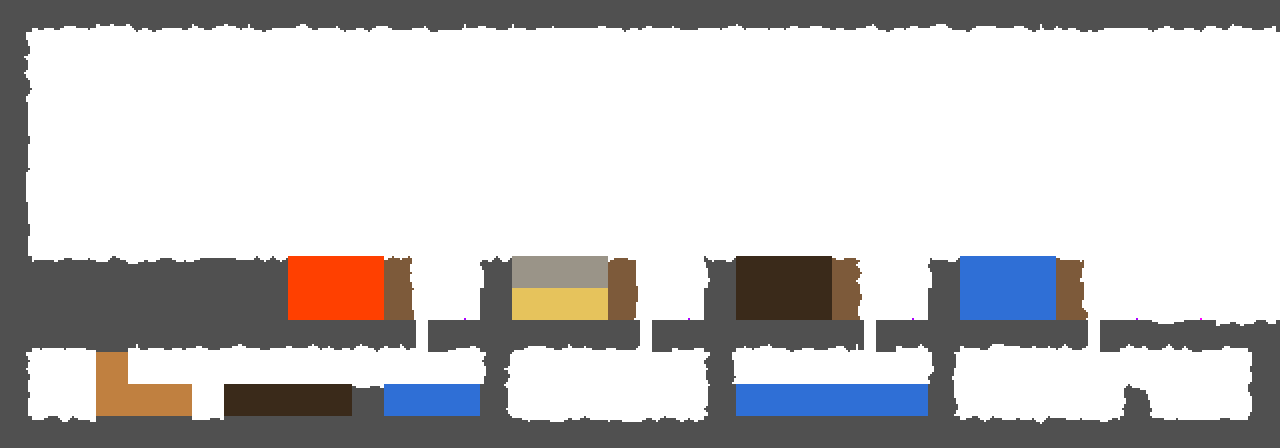
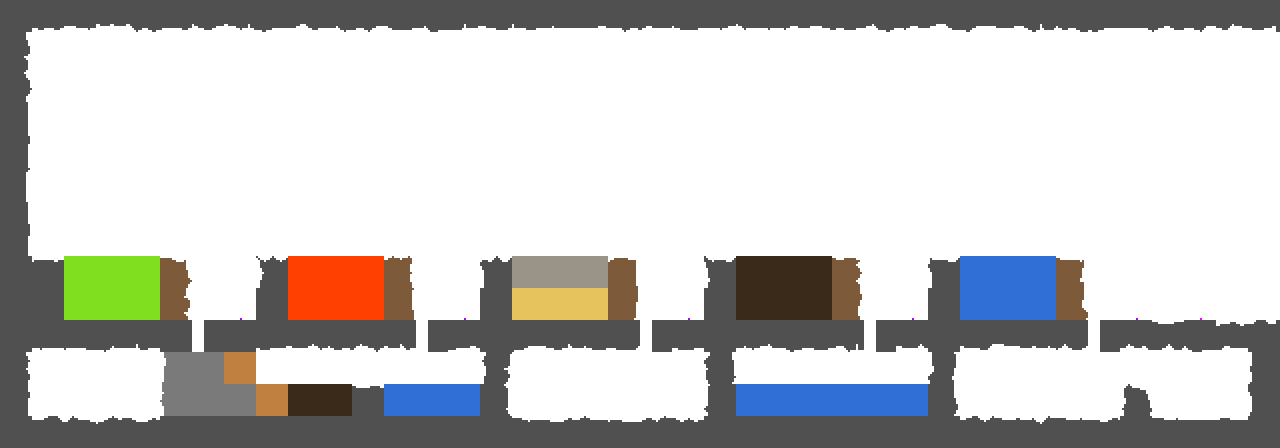
Torre 2D: fluidos estilo Noita (densidad, ácido, vapor y ceniza)
- Densidad por material: lo más pesado se hunde debajo del líquido más liviano (agua bajo aceite, arena en el agua; la ceniza flota).
- Ácido: carcome piedra, tierra, arena y madera (no la roca ni las espinas), se gasta al morder y quema al héroe.
- Vapor separado del humo: sale de lava+agua y fuego+agua, sube y se condensa en gotas de agua.
- La madera quemada deja ceniza.
- Sala de pruebas: quinta pileta (ácido) que cae sobre un bloque de piedra; carteles al día.
- Pruebas nuevas de cada regla.

Changed region(s): [[0.0312, 0.5625, 0.25, 0.9375]]

diff --git a/js/tower2dWorld.js b/js/tower2dWorld.js
@@ -5,14 +5,18 @@
 //   · arena: cae y se amontona · agua: corre y llena huecos (te frena y podés nadar) · madera: sólida, se quema
 //   · fuego: quema la madera y se apaga solo · lava: corre lenta, quema, vuelve piedra al agua · humo: sube y se va
 //   · espinas: sólidas y lastiman
+//   · ácido: líquido que disuelve lo que toca (menos la roca) y se gasta · vapor: sube y se condensa en gotas de agua
+//   · ceniza: lo que queda de la madera quemada; es liviana y flota en el agua
+//   Cada material tiene su densidad (MAT_DENS): lo más pesado se hunde debajo de lo más liviano (el aceite flota en el
+//   agua, la arena se hunde, la ceniza flota).
 //   Solo se simulan los trozos (16×16) donde algo se movió: así anda liviano en el navegador.
 //   Las salas fijas son imágenes (torre2d/salas/*.png): cada color es un material (guía en docs/TORRE2D-SALAS.md).
 
-const MAT = { AIR: 0, ROCK: 1, STONE: 2, DIRT: 3, SAND: 4, WATER: 5, WOOD: 6, FIRE: 7, LAVA: 8, SMOKE: 9, SPIKE: 10, GRAVEL: 11, OIL: 12 };
+const MAT = { AIR: 0, ROCK: 1, STONE: 2, DIRT: 3, SAND: 4, WATER: 5, WOOD: 6, FIRE: 7, LAVA: 8, SMOKE: 9, SPIKE: 10, GRAVEL: 11, OIL: 12, STEAM: 13, ACID: 14, ASH: 15 };
 // Colores de la imagen de cada sala → material (y marcas: entrada, enemigos, la pluma)
 const T2D_COLORS = [
     [MAT.ROCK, 0x505050], [MAT.STONE, 0x7a7a7a], [MAT.DIRT, 0x7d5a3a], [MAT.SAND, 0xe6c35c], [MAT.WATER, 0x2f6fd6],
-    [MAT.WOOD, 0xc08040], [MAT.LAVA, 0xff4000], [MAT.SPIKE, 0xd0d0e0], [MAT.GRAVEL, 0x9a9488], [MAT.OIL, 0x3a2a1a],
+    [MAT.WOOD, 0xc08040], [MAT.LAVA, 0xff4000], [MAT.SPIKE, 0xd0d0e0], [MAT.GRAVEL, 0x9a9488], [MAT.OIL, 0x3a2a1a], [MAT.ACID, 0x80e020],
     ['P', 0xff00ff], ['E', 0x00ff00], ['C', 0xff8800], ['F', 0xffff00], ['T', 0xaa00ff]
 ];
 // Cómo se dibuja cada material (dos tonos: el píxel elige uno según su "veta")
@@ -22,12 +26,17 @@ const MAT_LOOK = {
     [MAT.WATER]: [0x2a63c4, 0x2f6fd6, 0x3a7fe6, 0x4a8ef0], [MAT.WOOD]: [0x8a5a2e, 0x9a6534, 0xb07440, 0xbf8150],
     [MAT.FIRE]: [0xff5a10, 0xff7a1a, 0xffb02a, 0xffd23f], [MAT.LAVA]: [0xe03000, 0xff4000, 0xff6010, 0xff7a1a],
     [MAT.SMOKE]: [0x5e5864, 0x6a6470, 0x75707b, 0x7d7783], [MAT.SPIKE]: [0xb8bbc1, 0xc9ccd1, 0xdadde2, 0xe6e8ec],
-    [MAT.GRAVEL]: [0x7a7468, 0x8a8478, 0x9a9488, 0xa29c90], [MAT.OIL]: [0x261a10, 0x2e2016, 0x352619, 0x3d2c1e]
+    [MAT.GRAVEL]: [0x7a7468, 0x8a8478, 0x9a9488, 0xa29c90], [MAT.OIL]: [0x261a10, 0x2e2016, 0x352619, 0x3d2c1e],
+    [MAT.STEAM]: [0xc8ced8, 0xd2d8e0, 0xdce1e8, 0xe6eaef], [MAT.ACID]: [0x5cc21e, 0x6ad12a, 0x80e020, 0x9cf04a],
+    [MAT.ASH]: [0x45404a, 0x504a55, 0x5a545f, 0x655f6a]
 };
 const MAT_SOLID = new Uint8Array(16), MAT_LIQUID = new Uint8Array(16);
 [MAT.ROCK, MAT.STONE, MAT.DIRT, MAT.SAND, MAT.WOOD, MAT.SPIKE, MAT.GRAVEL].forEach(m => { MAT_SOLID[m] = 1; });
-[MAT.WATER, MAT.LAVA, MAT.OIL].forEach(m => { MAT_LIQUID[m] = 1; });
-const W2D = { chunk: 16, waterSpread: 5, oilSpread: 4, fireLife: [40, 90], burnChance: 0.04, oilBurn: 0.35, smokeLife: [40, 80], maxFly: 700, gravity: 320 };
+[MAT.WATER, MAT.LAVA, MAT.OIL, MAT.ACID].forEach(m => { MAT_LIQUID[m] = 1; });
+// Densidad: decide quién se hunde debajo de quién (líquidos y polvos). Los gases (humo, vapor, fuego) no pesan nada.
+const MAT_DENS = new Float32Array(16);
+Object.entries({ OIL: 0.8, WATER: 1, ACID: 1.05, ASH: 0.6, SAND: 1.6, GRAVEL: 2, LAVA: 2.5 }).forEach(([k, d]) => { MAT_DENS[MAT[k]] = d; });
+const W2D = { chunk: 16, waterSpread: 5, oilSpread: 4, acidSpread: 4, acidEat: 0.06, fireLife: [40, 90], burnChance: 0.04, oilBurn: 0.35, smokeLife: [40, 80], maxFly: 700, gravity: 320 };
 
 function w2dMake(W, H) {
     const n = W * H, C = W2D.chunk;
@@ -86,7 +95,7 @@ function w2dFromImage(img) {
 // # roca · p piedra · t tierra · s arena · g grava · ~ agua · o aceite · = madera (tabla de 4 px) · w madera · L lava · ^ espinas · h hueco angosto · P E C F marcas
 function w2dFromRows(rows, T = 16) {
     const w = w2dMake(rows[0].length * T, rows.length * T);
-    const fill = { '#': MAT.ROCK, p: MAT.STONE, t: MAT.DIRT, s: MAT.SAND, '~': MAT.WATER, w: MAT.WOOD, L: MAT.LAVA, g: MAT.GRAVEL, o: MAT.OIL };
+    const fill = { '#': MAT.ROCK, p: MAT.STONE, t: MAT.DIRT, s: MAT.SAND, '~': MAT.WATER, w: MAT.WOOD, L: MAT.LAVA, g: MAT.GRAVEL, o: MAT.OIL, a: MAT.ACID };
     rows.forEach((r, ty) => [...r].forEach((c, tx) => {
         const x0 = tx * T, y0 = ty * T;
         if (fill[c] !== undefined) { for (let y = y0; y < y0 + T; y++) w.mat.fill(fill[c], y * w.W + x0, y * w.W + x0 + T); }
@@ -110,12 +119,13 @@ function w2dStep(w) {
         for (let y = y1 - 1; y >= y0; y--) for (let j = 0; j < x1 - x0; j++) {
             const x = flip ? x0 + j : x1 - 1 - j, i = y * W + x, m = w.mat[i];
             if (m === MAT.AIR || w.tick[i] === w.frame) continue;
-            if (m === MAT.SAND || m === MAT.GRAVEL) w2dPowder(w, x, y, i);
+            if (m === MAT.SAND || m === MAT.GRAVEL || m === MAT.ASH) w2dPowder(w, x, y, i);
             else if (m === MAT.WATER) w2dLiquid(w, x, y, i, W2D.waterSpread);
             else if (m === MAT.OIL) w2dLiquid(w, x, y, i, W2D.oilSpread);
+            else if (m === MAT.ACID) { if (!w2dAcid(w, x, y, i)) w2dLiquid(w, x, y, i, W2D.acidSpread); }
             else if (m === MAT.LAVA) { if ((w.frame + x) % 3 === 0) w2dLiquid(w, x, y, i, 1); w2dLava(w, x, y); }
             else if (m === MAT.FIRE) w2dFire(w, x, y, i);
-            else if (m === MAT.SMOKE) w2dSmoke(w, x, y, i);
+            else if (m === MAT.SMOKE || m === MAT.STEAM) w2dSmoke(w, x, y, i);
             else if (m === MAT.DIRT && y + 1 < w.H && w.mat[i + w.W] === MAT.AIR) w2dCrumble(w, x, y, i);
         }
     }
@@ -157,12 +167,12 @@ function w2dCrumble(w, x, y, i) {
     w2dWake(w, x, y);
     if (Math.random() < 0.06) w2dSet(w, x, y, MAT.SAND);
 }
-function w2dCanFall(m) { return m === MAT.AIR || m === MAT.SMOKE || m === MAT.FIRE; }
-// el agua es más pesada que el aceite: se hunde debajo (el aceite flota)
-const w2dSinks = (m, under) => m === MAT.WATER && under === MAT.OIL;
+function w2dCanFall(m) { return m === MAT.AIR || m === MAT.SMOKE || m === MAT.FIRE || m === MAT.STEAM; }
+// lo más pesado se hunde debajo de un líquido más liviano (el agua bajo el aceite, la arena en el agua)
+const w2dSinks = (m, under) => MAT_LIQUID[under] === 1 && MAT_DENS[m] > MAT_DENS[under];
 function w2dPowder(w, x, y, i) {
     const below = w2dGet(w, x, y + 1);
-    if (y + 1 < w.H && (w2dCanFall(below) || MAT_LIQUID[below])) return w2dSwap(w, i, i + w.W);
+    if (y + 1 < w.H && (w2dCanFall(below) || w2dSinks(w.mat[i], below))) return w2dSwap(w, i, i + w.W);
     const d = Math.random() < 0.5 ? 1 : -1;
     for (const dx of [d, -d]) if (y + 1 < w.H && w2dIn(w, x + dx, y + 1) && w2dCanFall(w2dGet(w, x + dx, y + 1)) && w2dCanFall(w2dGet(w, x + dx, y))) return w2dSwap(w, i, i + w.W + dx);
 }
@@ -180,25 +190,39 @@ function w2dLiquid(w, x, y, i, spread) {
 function w2dLava(w, x, y) {
     for (const [dx, dy] of [[1, 0], [-1, 0], [0, 1], [0, -1]]) {
         const n = w2dGet(w, x + dx, y + dy);
-        if (n === MAT.WATER) { w2dSet(w, x, y, MAT.STONE); w2dSet(w, x + dx, y + dy, MAT.SMOKE, w2dRand(...W2D.smokeLife)); return; } // lava + agua = piedra y vapor
+        if (n === MAT.WATER) { w2dSet(w, x, y, MAT.STONE); w2dSet(w, x + dx, y + dy, MAT.STEAM, w2dRand(...W2D.smokeLife)); return; } // lava + agua = piedra y vapor
         if ((n === MAT.WOOD && Math.random() < W2D.burnChance) || (n === MAT.OIL && Math.random() < W2D.oilBurn)) w2dSet(w, x + dx, y + dy, MAT.FIRE, w2dRand(...W2D.fireLife));
         if (n === MAT.AIR && dy === -1 && Math.random() < 0.002) w2dSet(w, x, y - 1, MAT.SMOKE, w2dRand(...W2D.smokeLife));
     }
 }
 function w2dFire(w, x, y, i) {
     w2dWake(w, x, y);
-    if (--w.life[i] <= 0) { w.mat[i] = Math.random() < 0.3 ? MAT.SMOKE : MAT.AIR; w.life[i] = w2dRand(...W2D.smokeLife); return; }
+    if (--w.life[i] <= 0) { const r = Math.random(); w.mat[i] = r < 0.15 ? MAT.ASH : r < 0.45 ? MAT.SMOKE : MAT.AIR; w.life[i] = w2dRand(...W2D.smokeLife); return; } // se apaga: ceniza, humo o nada
     for (const [dx, dy] of [[1, 0], [-1, 0], [0, 1], [0, -1], [1, -1], [-1, -1]]) {
         const n = w2dGet(w, x + dx, y + dy);
         if (n === MAT.WOOD && Math.random() < W2D.burnChance) w2dSet(w, x + dx, y + dy, MAT.FIRE, w2dRand(...W2D.fireLife));
         if (n === MAT.OIL && Math.random() < W2D.oilBurn) w2dSet(w, x + dx, y + dy, MAT.FIRE, w2dRand(20, 50)); // el aceite prende enseguida
-        if (n === MAT.WATER) { w.mat[i] = MAT.SMOKE; w.life[i] = w2dRand(...W2D.smokeLife); return; } // el agua lo apaga
+        if (n === MAT.WATER) { w.mat[i] = MAT.STEAM; w.life[i] = w2dRand(...W2D.smokeLife); return; } // el agua lo apaga (y sale vapor)
     }
     if (Math.random() < 0.05 && w2dGet(w, x, y - 1) === MAT.AIR) w2dSet(w, x, y - 1, MAT.SMOKE, w2dRand(10, 30));
 }
+// El ácido: carcome lo que toca (no la roca de la torre ni las espinas) y en cada mordida puede gastarse. true si mordió.
+function w2dAcid(w, x, y, i) {
+    let food = false;
+    for (const [dx, dy] of [[0, 1], [1, 0], [-1, 0], [0, -1]]) {
+        const n = w2dGet(w, x + dx, y + dy);
+        if (n === MAT.AIR || n === MAT.ACID || n === MAT.ROCK || n === MAT.SPIKE || w2dCanFall(n) || MAT_LIQUID[n] || !w2dIn(w, x + dx, y + dy)) continue;
+        food = true; if (Math.random() > W2D.acidEat) continue;
+        w2dSet(w, x + dx, y + dy, Math.random() < 0.3 ? MAT.SMOKE : MAT.AIR, w2dRand(10, 30));
+        if (Math.random() < 0.5) w2dSet(w, x, y, MAT.AIR);
+        return true;
+    }
+    if (food) w2dWake(w, x, y); // mientras tenga algo para comer, sigue despierto
+    return false;
+}
 function w2dSmoke(w, x, y, i) {
     w2dWake(w, x, y);
-    if (--w.life[i] <= 0) { w.mat[i] = MAT.AIR; return; }
+    if (--w.life[i] <= 0) { w.mat[i] = w.mat[i] === MAT.STEAM && Math.random() < 0.35 ? MAT.WATER : MAT.AIR; return; } // el vapor se condensa: vuelve a caer agua
     const dx = w2dRand(-1, 1);
     if (y > 0 && w2dIn(w, x + dx, y - 1) && w2dGet(w, x + dx, y - 1) === MAT.AIR) w2dSwap(w, i, i - w.W + dx);
 }
@@ -268,7 +292,7 @@ function w2dRender(w) {
             let c = L[t];
             // borde: el píxel de arriba es aire → un tono más claro (se lee la superficie); abajo aire → más oscuro
             if (MAT_SOLID[m]) { const up = w2dGet(w, x, y - 1), dn = w2dGet(w, x, y + 1); if (!MAT_SOLID[up] && !MAT_LIQUID[up]) c = w2dTint(c, 34); else if (!MAT_SOLID[dn] && !MAT_LIQUID[dn]) c = w2dTint(c, -26); }
-            const a = m === MAT.WATER ? 0xc0 : m === MAT.SMOKE ? 0x90 : 0xff;
+            const a = m === MAT.WATER ? 0xc0 : m === MAT.SMOKE ? 0x90 : m === MAT.STEAM ? 0x70 : m === MAT.ACID ? 0xd8 : 0xff;
             w.px[i] = (a << 24) | ((c & 255) << 16) | (c & 0xff00) | ((c >> 16) & 255); // ABGR
         }
         w.glow[cy * w.cw + cx] = glow; // cuánto fuego y lava hay en el trozo: alumbra (t2dDrawLight)

diff --git a/js/tower2d.js b/js/tower2d.js
@@ -52,7 +52,7 @@ try { const saved = JSON.parse(localStorage.getItem('t2d-feel') || '{}'); T2D_TU
 
 // --- LAS SALAS. Cada una es una imagen en torre2d/salas/<nombre>.png (cada color, un material: docs/TORRE2D-SALAS.md).
 //     Si la imagen no carga (o en las pruebas), se arma desde estas filas de bloques de 16 px:
-//     # roca · p piedra · t tierra · s arena · g grava · ~ agua · o aceite · = tabla de madera · w madera · L lava · ^ espinas
+//     # roca · p piedra · t tierra · s arena · g grava · ~ agua · o aceite · a ácido · = tabla de madera · w madera · L lava · ^ espinas
 //     h hueco angosto (6 px de aire a la izquierda: pasa el fluido, no el héroe)
 //     P entrada · E caminante · C embestidor (avisa y embiste) · F la Pluma de Arén (doble salto) · T antorcha
 //     Los bordes abiertos llevan a la sala que dice `exits`.
@@ -81,11 +81,11 @@ const T2D_ROOMS = {
         '#.......................................',
         '#.......................................',
         '#.......................................',
-        '#########LLLt..#gggt..#ooot..#~~~t......',
-        '#########LLLt.T#ssst.T#ooot.T#~~~t.T.P..',
-        '#############h######h######h######h#####',
-        '#..w...........#......#......#.........#',
-        '#..www.oooo#~~~#......#~~~~~~#.....#...#',
+        '##aaat..#LLLt..#gggt..#ooot..#~~~t......',
+        '##aaat.T#LLLt.T#ssst.T#ooot.T#~~~t.T.P..',
+        '######h######h######h######h######h#####',
+        '#....ppw.......#......#......#.........#',
+        '#....pppwoo#~~~#......#~~~~~~#.....#...#',
         '########################################'] },
     base: { name: 'La puerta de la Torre', dark: 0.74, exits: { left: 'playa', right: 'salon' }, rows: [
         '########################################',
@@ -138,10 +138,11 @@ const T2D_SIGNS = {
     playa: [[2, 7, '← La sala de pruebas: los materiales de la Torre, uno por uno.']],
     pruebas: [
         [37, 9, 'Sala de pruebas. Cada pileta tiene un dique de tierra: rompelo con el tajo y mirá qué pasa abajo.'],
-        [36, 9, 'AGUA: corre, llena los huecos y se nivela. Adentro te frena y podés nadar (saltá para bracear). Apaga el fuego.'],
+        [36, 9, 'AGUA: corre, llena los huecos y se nivela. Adentro te frena y podés nadar (saltá para bracear). Apaga el fuego (sale vapor).'],
         [28, 9, 'ACEITE: corre más lento y es más liviano: flota sobre el agua. Se prende fuego enseguida.'],
         [21, 9, 'ARENA y GRAVA: caen y se amontonan (la grava, más pesada). El tajo las cava; el agua las atraviesa.'],
-        [14, 9, 'LAVA: corre lenta y quema. Con el agua se hace piedra y vapor; prende la madera y el aceite.']
+        [14, 9, 'LAVA: la más pesada, corre lenta y quema. Con el agua se hace piedra y vapor (el vapor sube y vuelve a llover); prende la madera y el aceite, y la madera quemada deja ceniza que flota.'],
+        [7, 9, 'ÁCIDO: carcome la piedra, la tierra, la arena y la madera (la roca de la torre no) y se va gastando. Te quema.']
     ]
 };
 const T2D_WORLDS = {}; // el mundo de cada sala (lo que rompiste queda roto mientras dure la partida)
@@ -406,8 +407,8 @@ function t2dUpdate(input, dt) {
         if (!h.dug) { h.dug = true; const n = w2dDig(g.world, box, h.combo === 3, h.aim === 'side' ? h.facing : 0); if (n) { t2dDust(box.x + box.w / 2, box.y + box.h / 2, Math.min(12, 2 + n / 20), 1.5); T2D_SND.dig(); } }
     }
     if (input.parry) t2dParry(h, g.clock);
-    // espinas, lava y fuego: lastiman y te tiran para arriba
-    if (t2dTouches(g.world, h, MAT.SPIKE, MAT.LAVA) || w2dBoxFraction(g.world, h, MAT.FIRE) > 0.1) { if (g.clock >= (h.invulnUntil || 0)) { t2dHurt(1, -h.facing); h.vy = -T2D.hero.jumpV * 0.7; } }
+    // espinas, lava, fuego y ácido: lastiman y te tiran para arriba
+    if (t2dTouches(g.world, h, MAT.SPIKE, MAT.LAVA) || w2dBoxFraction(g.world, h, MAT.FIRE, MAT.ACID) > 0.1) { if (g.clock >= (h.invulnUntil || 0)) { t2dHurt(1, -h.facing); h.vy = -T2D.hero.jumpV * 0.7; } }
     // enemigos: caminan y se dan vuelta en las paredes y los bordes; al recibir un golpe salen despedidos
     g.enemies.forEach(e => {
         if (e.hp <= 0) return;

diff --git a/js/tests.js b/js/tests.js
@@ -4825,6 +4825,20 @@ test('Torre 2D: correr, saltar (más alto si mantenés), plataformas, tajo, sala
     const wo = w2dFromRows(['#o#', '#~#', '###']); for (let i = 0; i < 200; i++) w2dStep(wo);
     let oilY = 0, waterY = 0, no = 0, nw = 0; for (let y = 0; y < wo.H; y++) for (let x = 0; x < wo.W; x++) { const m = wo.mat[y * wo.W + x]; if (m === MAT.OIL) { oilY += y; no++; } if (m === MAT.WATER) { waterY += y; nw++; } }
     check(no && nw && oilY / no < waterY / nw, 'el aceite queda arriba del agua');
+    // densidad, ácido, vapor y ceniza (pedido del usuario 2026-10-26: fluidos estilo Noita)
+    const cnt = (w, m) => w.mat.filter(v => v === m).length, avgY = (w, m) => { let t = 0, n = 0; for (let i = 0; i < w.mat.length; i++) if (w.mat[i] === m) { t += (i / w.W) | 0; n++; } return n ? t / n : -1; };
+    const wsd = w2dFromRows(['#s#', '#~#', '###']); for (let i = 0; i < 300; i++) w2dStep(wsd);
+    check(avgY(wsd, MAT.SAND) > avgY(wsd, MAT.WATER), 'la arena se hunde en el agua (más densa)');
+    const was = w2dFromRows(['#~#', '#~#', '###']); was.mat.fill(MAT.ASH, 0, was.W * 4); for (let i = 0; i < 300; i++) w2dStep(was);
+    check(cnt(was, MAT.ASH) > 0 && avgY(was, MAT.ASH) < avgY(was, MAT.WATER), 'la ceniza flota en el agua');
+    const wac = w2dFromRows(['.a.', 'ptp', '###']), stone0 = cnt(wac, MAT.STONE) + cnt(wac, MAT.DIRT), acid0 = cnt(wac, MAT.ACID);
+    for (let i = 0; i < 400; i++) w2dStep(wac);
+    check(cnt(wac, MAT.STONE) + cnt(wac, MAT.DIRT) < stone0 && cnt(wac, MAT.ACID) < acid0 && cnt(wac, MAT.ROCK) === 3 * 16 * 16, 'el ácido carcome la piedra y la tierra, se gasta y la roca aguanta');
+    const wst = w2dMake(16, 40); for (let x = 0; x < 16; x++) { wst.mat[39 * 16 + x] = MAT.ROCK; for (let y = 20; y < 24; y++) w2dSet(wst, x, y, MAT.STEAM, 30); }
+    for (let i = 0; i < 300; i++) w2dStep(wst);
+    check(cnt(wst, MAT.STEAM) === 0 && cnt(wst, MAT.WATER) > 0, 'el vapor sube y se condensa en agua');
+    const wfa = w2dFromRows(['ww', '##']); w2dIgnite(wfa, 8, 8, 3); for (let i = 0; i < 1500; i++) w2dStep(wfa);
+    check(cnt(wfa, MAT.ASH) > 0, 'la madera quemada deja ceniza');
     const wv = w2dFromRows(['....', '....', '####']), before = wv.mat.filter(m => m === MAT.SAND).length;
     w2dFling(wv, 10, 5, 60, -50, MAT.SAND); for (let i = 0; i < 120 && wv.fly.length; i++) w2dStep(wv);
     check(!wv.fly.length && wv.mat.filter(m => m === MAT.SAND).length === before + 1, 'lo que vuela cae y vuelve a ser arena');

diff --git a/js/main.js b/js/main.js
@@ -1,7 +1,7 @@
 // Punto de entrada: conecta los botones y arranca el bucle principal.
 
 // Versión visible en el menú: si no coincide con la última subida, el navegador muestra una copia vieja (Ctrl+F5).
-const GAME_VERSION = '2026-10-26 · Torre 2D: sala de pruebas de materiales';
+const GAME_VERSION = '2026-10-26 · Torre 2D: densidad, ácido, vapor y ceniza';
 document.getElementById('game-version').textContent = `Versión ${GAME_VERSION}`;
 // Se actualiza solo (2026-10-17, "no se actualizó"): GitHub Pages deja el juego en la caché del navegador hasta 10 min.
 // Si el main.js del servidor trae otra versión, se vuelven a bajar la página y sus archivos y se recarga (una vez por versión).

diff --git a/docs/arte/torre2d-salas.py b/docs/arte/torre2d-salas.py
@@ -10,7 +10,7 @@ src = open(os.path.join(ROOT, 'js', 'tower2d.js'), encoding='utf-8').read()
 rooms = {m.group(1): re.findall(r"'([^']*)'", m.group(2)) for m in re.finditer(r"(\w+): \{ name: '[^']*',[^\[]*rows: \[(.*?)\] \}", src, re.S)}
 T = 16
 COL = {'#': (0x50, 0x50, 0x50), 'p': (0x7a, 0x7a, 0x7a), 't': (0x7d, 0x5a, 0x3a), 's': (0xe6, 0xc3, 0x5c), '~': (0x2f, 0x6f, 0xd6),
-       'w': (0xc0, 0x80, 0x40), '=': (0xc0, 0x80, 0x40), 'L': (0xff, 0x40, 0x00), '^': (0xd0, 0xd0, 0xe0), 'g': (0x9a, 0x94, 0x88), 'o': (0x3a, 0x2a, 0x1a)}
+       'w': (0xc0, 0x80, 0x40), '=': (0xc0, 0x80, 0x40), 'L': (0xff, 0x40, 0x00), '^': (0xd0, 0xd0, 0xe0), 'g': (0x9a, 0x94, 0x88), 'o': (0x3a, 0x2a, 0x1a), 'a': (0x80, 0xe0, 0x20)}
 MARK = {'P': (0xff, 0x00, 0xff), 'E': (0x00, 0xff, 0x00), 'C': (0xff, 0x88, 0x00), 'F': (0xff, 0xff, 0x00), 'T': (0xaa, 0x00, 0xff)}
 
 def noise(x, y, seed):  # ruido suave (valor en una grilla de 4 px, interpolado)

diff --git a/docs/TORRE2D-SALAS.md b/docs/TORRE2D-SALAS.md
@@ -19,6 +19,7 @@ Se puede dibujar con cualquier programa de pixel art (Aseprite, Piskel, LibreSpr
 | Gris azulado claro | `#d0d0e0` | espinas | lastiman (el tajo hacia abajo rebota en ellas) |
 | Gris piedrita | `#9a9488` | grava | cae como la arena y se hunde en el agua (sale de la piedra rota) |
 | Marrón muy oscuro | `#3a2a1a` | aceite | líquido que flota sobre el agua y prende fuego enseguida |
+| Verde ácido | `#80e020` | ácido | líquido que carcome todo menos la roca, y se gasta; quema |
 
 **Marcas** (un solo píxel; el juego no lo dibuja, solo ubica cosas ahí, apoyadas sobre ese punto):
 | Color | Código | Qué pone |
